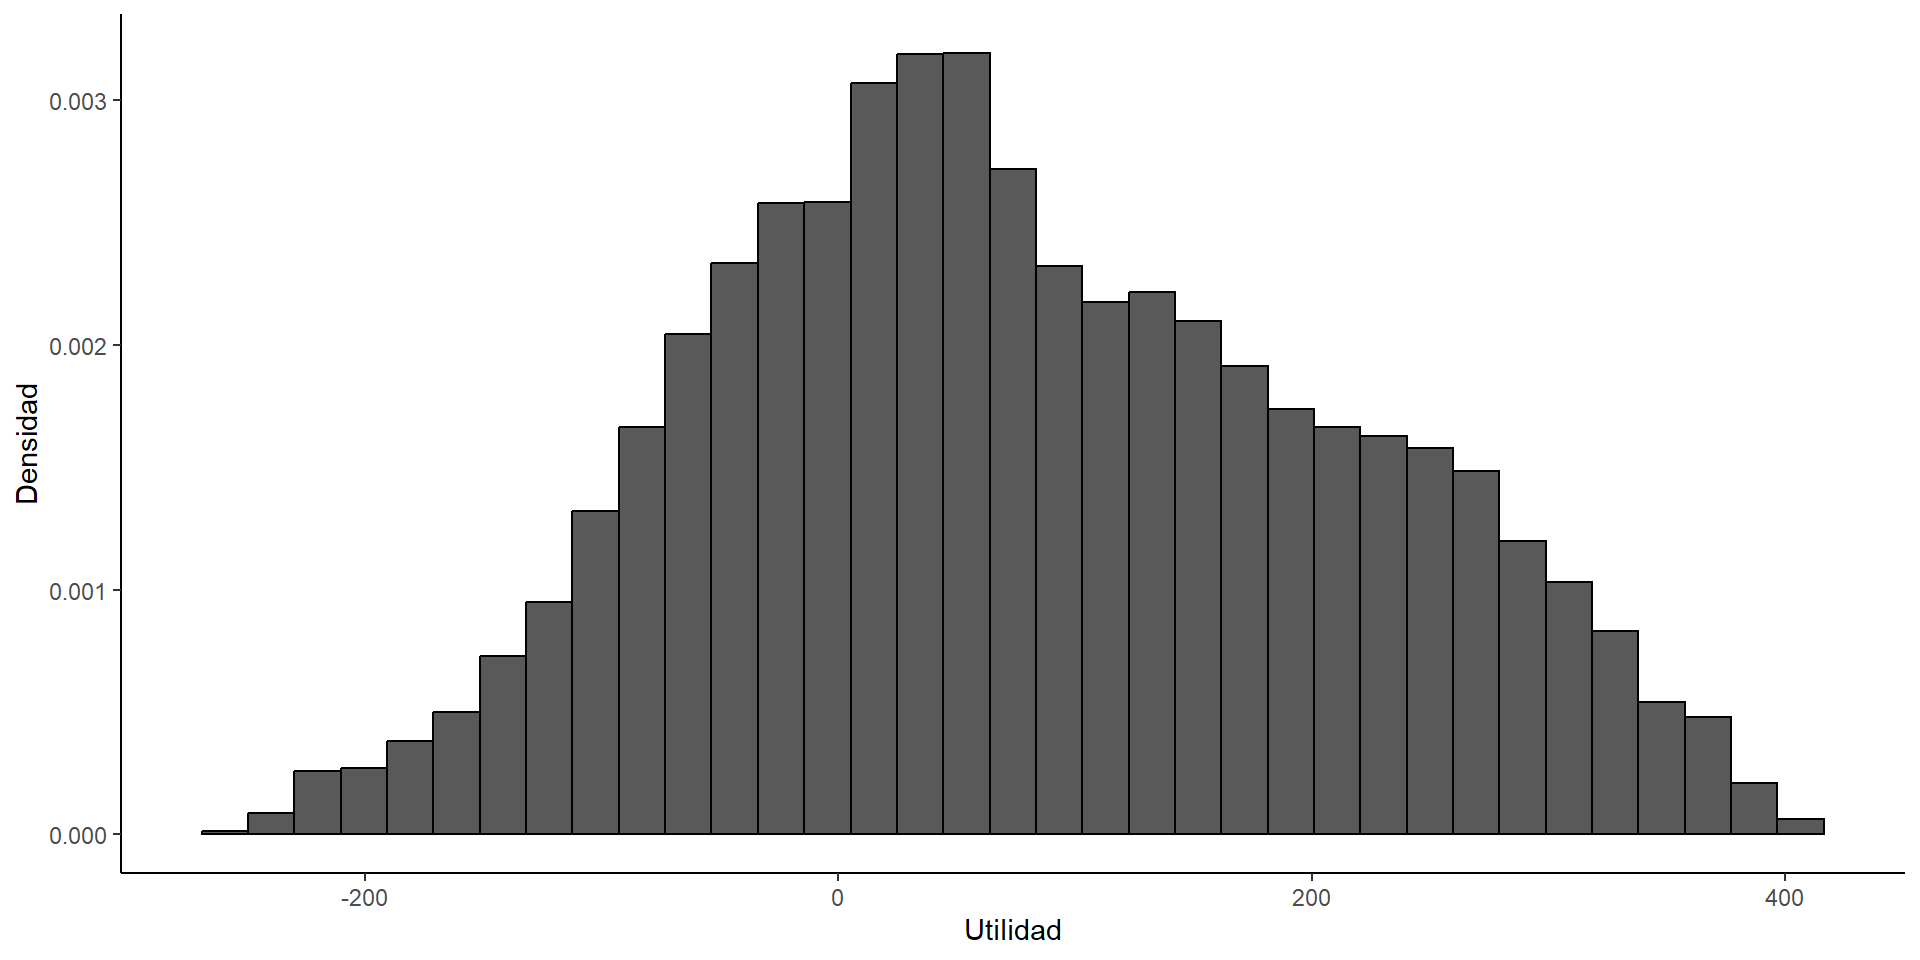
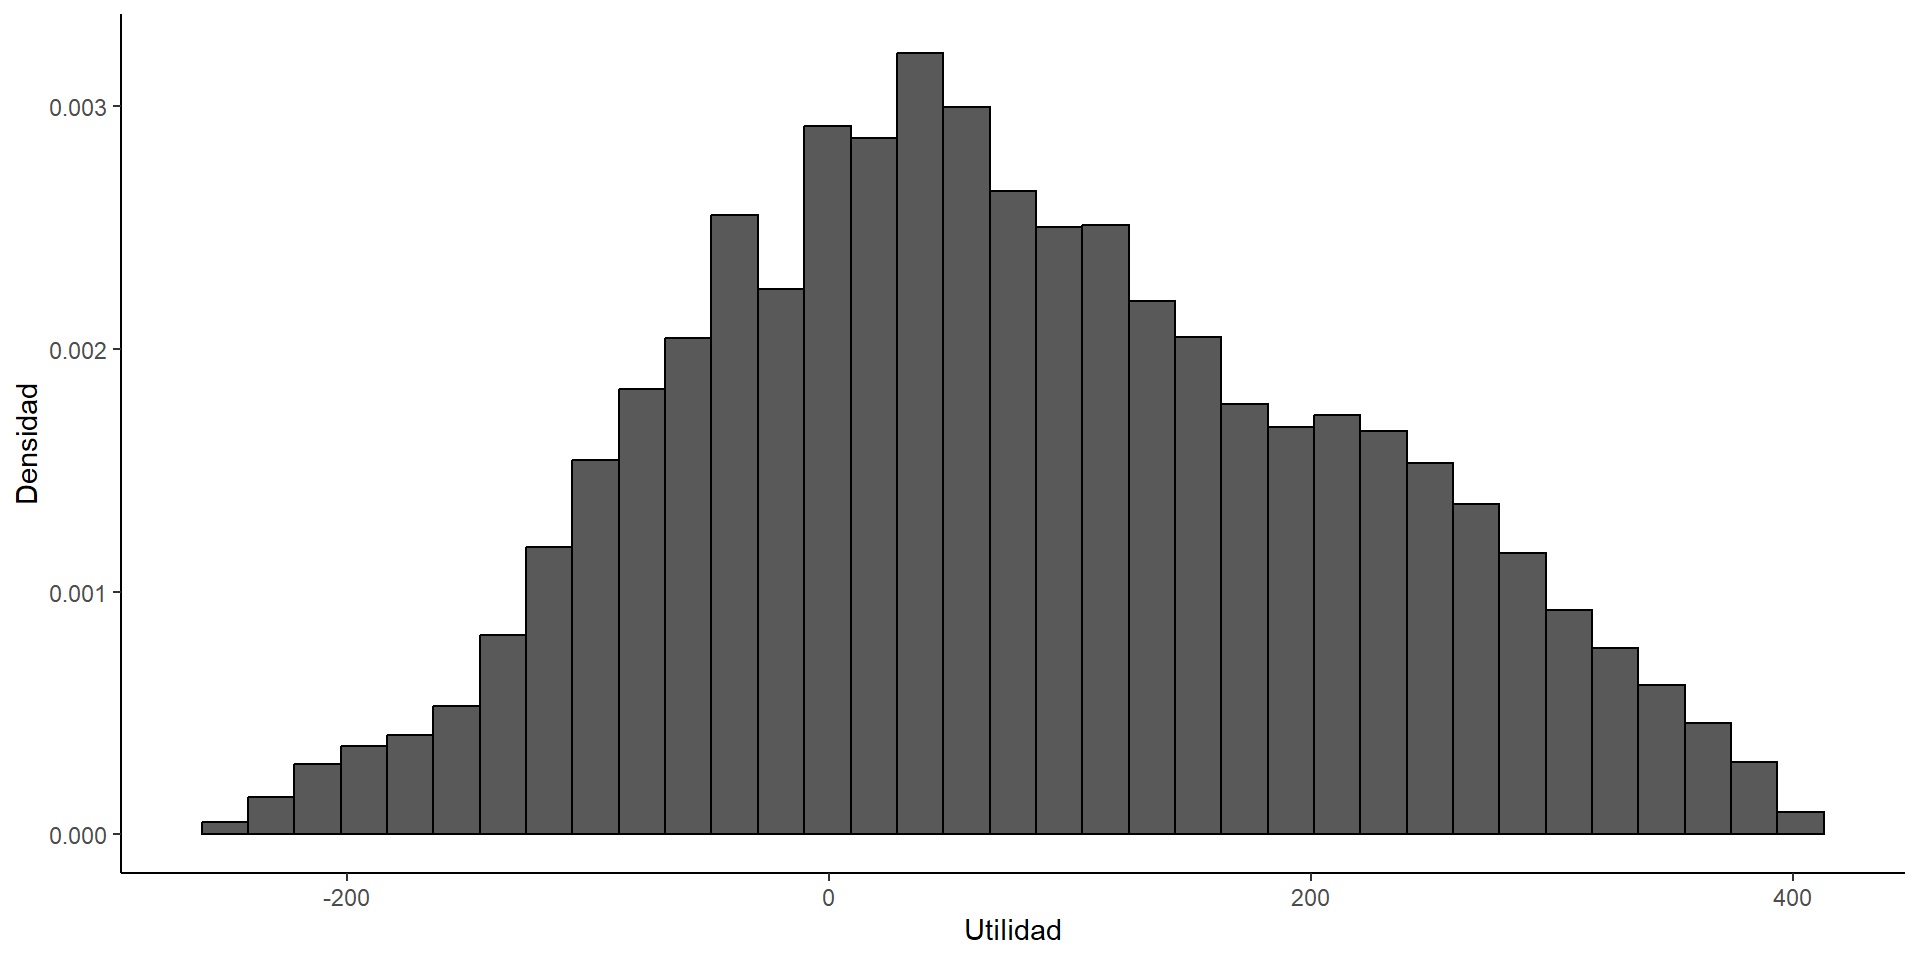
Update

diff --git a/docs/clases/index.html b/docs/clases/index.html
@@ -215,33 +215,36 @@ window.Quarto = {
 
 <div class="quarto-listing quarto-listing-container-default" id="listing-listing">
 <div class="list quarto-listing-default">
-<div class="quarto-post image-right" data-index="0" data-listing-file-modified-sort="1760420730014" data-listing-reading-time-sort="20" data-listing-word-count-sort="3955">
+<div class="quarto-post image-right" data-index="0" data-listing-date-sort="1760410800000" data-listing-file-modified-sort="1760420952935" data-listing-date-modified-sort="NaN" data-listing-reading-time-sort="20" data-listing-word-count-sort="3969">
+<div class="body">
+
+</div>
+<div class="metadata">
+<a href="../clases/diapo_01.html" class="no-external">
+<div class="metadata-value listing-listing_title">
+Diapositiva 01
+</div>
+</a>
+</div>
+</div>
+<div class="quarto-post image-right" data-index="1" data-listing-file-modified-sort="1760420951998" data-listing-reading-time-sort="20" data-listing-word-count-sort="3955">
 <div class="body">
 
 </div>
 <div class="metadata">
 <a href="../clases/notebook_01.pdf" class="no-external">
 <div class="metadata-value listing-listing_title">
-Fundamentos de Datos para la Toma de Decisiones Estratégicas con IA
+Notebook 01
 </div>
 </a>
 </div>
 </div>
-<div class="quarto-post image-right" data-index="1" data-listing-file-modified-sort="1760418681747" data-listing-reading-time-sort="1" data-listing-word-count-sort="23">
+<div class="quarto-post image-right" data-index="2" data-listing-file-modified-sort="1760418681747" data-listing-reading-time-sort="1" data-listing-word-count-sort="23">
 <div class="body">
 
 </div>
 <div class="metadata">
 <a href="../clases/clases.html" class="no-external">
-</a>
-</div>
-</div>
-<div class="quarto-post image-right" data-index="2" data-listing-date-sort="1760410800000" data-listing-file-modified-sort="1760420208500" data-listing-date-modified-sort="NaN" data-listing-reading-time-sort="20" data-listing-word-count-sort="3969">
-<div class="body">
-
-</div>
-<div class="metadata">
-<a href="../clases/diapo_01.html" class="no-external">
 </a>
 </div>
 </div>

diff --git a/docs/clases/diapo_01.html b/docs/clases/diapo_01.html
@@ -771,13 +771,13 @@
 <div class="cell">
 
 <div class="cell-output cell-output-stdout">
-<pre><code>[1] "Prob(utilidad&lt;0) = 0.29"</code></pre>
+<pre><code>[1] "Prob(utilidad&lt;0) = 0.3"</code></pre>
 </div>
 </div>
 <img data-src="diapo_01_files/figure-revealjs/unnamed-chunk-7-1.png" width="960" class="r-stretch"><p>B. Calcule el valor esperado de las utilidades del negocio</p>
 <div class="cell">
 <div class="cell-output cell-output-stdout">
-<pre><code>[1] "Valor esperado utilidad = 80.5"</code></pre>
+<pre><code>[1] "Valor esperado utilidad = 78.03"</code></pre>
 </div>
 </div>
 </section>
